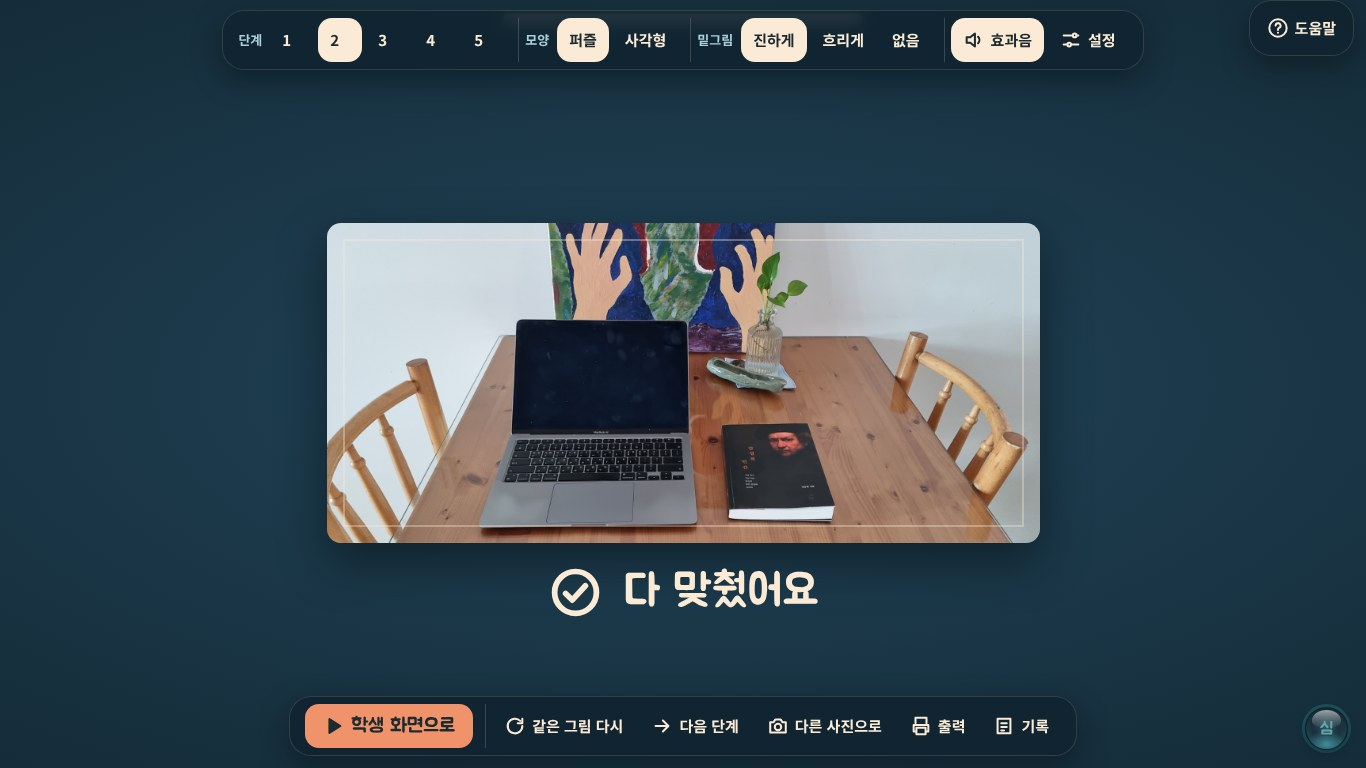
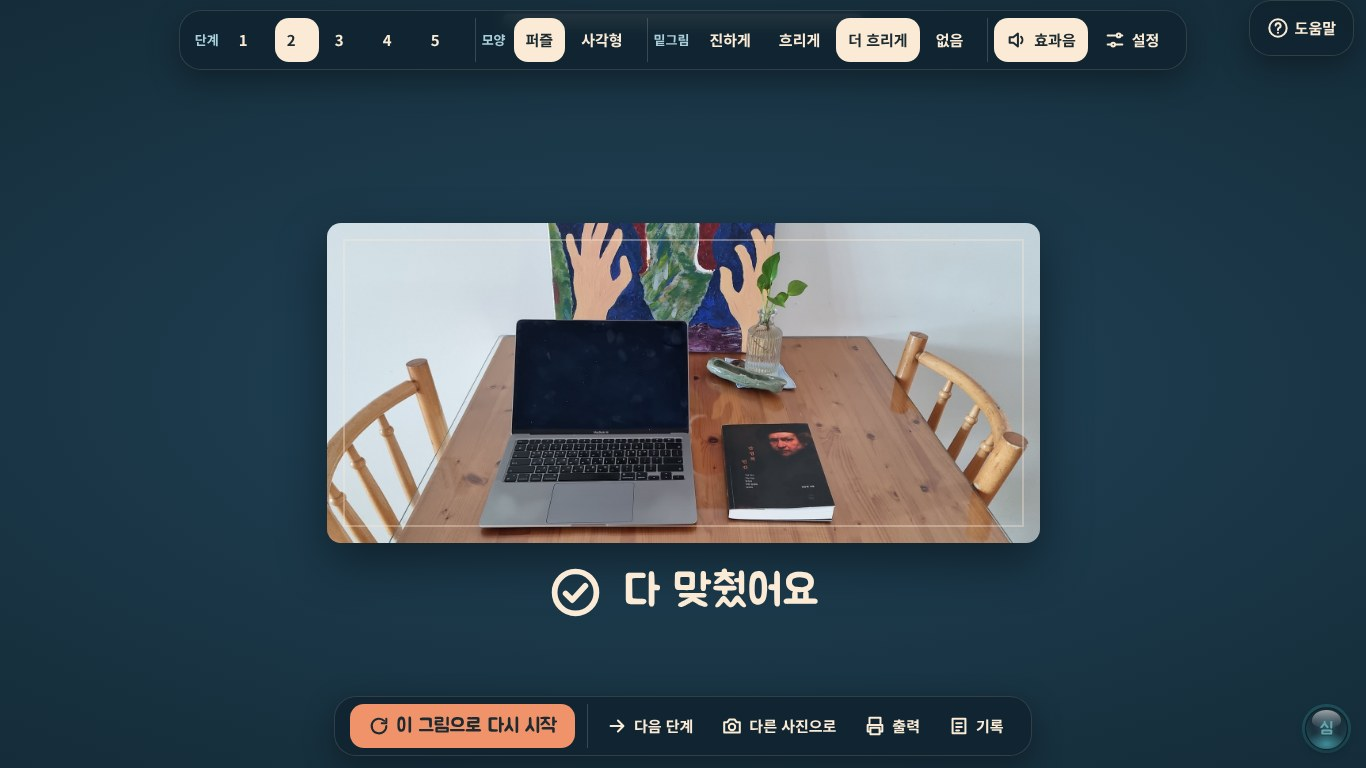
Add files via upload

Changed region(s): [[0.1537, 0.0, 0.8609, 0.0938], [0.2152, 0.9062, 0.7687, 1.0]]

diff --git a/002/picture-puzzle.html b/002/picture-puzzle.html
@@ -222,7 +222,7 @@ const ICON={
 /* 단계: 가로 5칸 고정, 줄 수 = 단계 */
 const LEVELS={1:{cols:5,rows:1},2:{cols:5,rows:2},3:{cols:5,rows:3},4:{cols:5,rows:4},5:{cols:5,rows:5}};
 const SHAPES={jig:'퍼즐 모양',rect:'사각형'};
-const GHOSTS={1:'진하게',2:'흐리게',3:'안 보이게'};
+const GHOSTS={1:'진하게',2:'흐리게',3:'더 흐리게',4:'안 보이게'};
 const pieceCount=lv=>LEVELS[lv].cols*LEVELS[lv].rows;
 
 /* ================= 상태 ================= */
@@ -234,7 +234,9 @@ const store={
 (function load(){
   const lv=+store.get('level'); if(LEVELS[lv]) S.level=lv;
   const sh=store.get('shape'); if(SHAPES[sh]) S.shape=sh;
-  const g=+store.get('ghost'); if(GHOSTS[g]) S.ghost=g;
+  /* 밑그림 4단계(진하게·흐리게·더 흐리게·없음). 예전 3단계에 저장된 '안 보이게'(3)는 4로 옮김 */
+  const g2=+store.get('ghost2'), g=+store.get('ghost');
+  if(GHOSTS[g2]) S.ghost=g2; else if([1,2,3].includes(g)) S.ghost=g===3?4:g;
   const em=store.get('errorMode'); if(['retry','free'].includes(em)) S.errorMode=em;
   if(store.get('mode')==='solo') S.mode='solo';
   S.sfx=store.get('sfx')!=='off';
@@ -313,19 +315,20 @@ function renderDocks(){
     `<div class="grp">${b('sfx',(S.sfx?ICON.sndOn:ICON.sndOff)+(S.sfx?'효과음':'효과음 끔'),S.sfx)}${b('setup',ICON.gear+'설정')}</div>`;
   $('helpTop').innerHTML=b('tour',ICON.q+'도움말');
   $('dockBot').innerHTML = !R ? '' : done
-    ? `<div class="grp">${b('student',ICON.play+'학생 화면으로',null,'class="big"')}</div><div class="grp">${b('again',ICON.redo+'같은 그림 다시')}${S.level<5?b('nextlv',ICON.next+'다음 단계'):''}${b('setup',ICON.photo+'다른 사진으로')}${b('print',ICON.print+'출력')}${b('log',ICON.log+'기록',!$('logPop').hidden)}</div>`
-    : `<div class="grp">${b('student',ICON.play+'학생 화면으로',null,'class="big"')}</div><div class="grp">${b('mix',ICON.mix+'다시 섞기',null,R&&R.active?'':'disabled')}${b('log',ICON.log+'기록',!$('logPop').hidden)}</div>`;
+    ? `<div class="grp">${b('restart',ICON.redo+'이 그림으로 다시 시작',null,'class="big"')}</div><div class="grp">${S.level<5?b('nextlv',ICON.next+'다음 단계'):''}${b('setup',ICON.photo+'다른 사진으로')}${b('print',ICON.print+'출력')}${b('log',ICON.log+'기록',!$('logPop').hidden)}</div>`
+    : `<div class="grp">${b('restart',ICON.redo+'이 그림으로 다시 시작',null,'class="big"')}</div><div class="grp">${b('mix',ICON.mix+'다시 섞기',null,R&&R.active?'':'disabled')}${b('log',ICON.log+'기록',!$('logPop').hidden)}</div>`;
 }
 function onDock(e){
   const btn=e.target.closest('button[data-a]'); if(!btn) return;
   const [a,v]=btn.dataset.a.split(':');
   if(a==='lv'){ S.level=+v; store.set('level',S.level); startRound(); }
   if(a==='sh'){ S.shape=v; store.set('shape',S.shape); startRound(); }
-  if(a==='gh'){ S.ghost=+v; store.set('ghost',S.ghost); applyGhost(); renderDocks(); }
+  if(a==='gh'){ S.ghost=+v; store.set('ghost2',S.ghost); applyGhost(); renderDocks(); }
   if(a==='sfx'){ S.sfx=!S.sfx; store.set('sfx',S.sfx?'on':'off'); renderDocks(); }
   if(a==='setup'){ leaveFull(); showSetup(); }
-  /* 학생 화면으로: 메뉴를 닫고 바로 전체 화면으로 (들어올 때만 3초) */
-  if(a==='student'){ setAdmin(false); goFull(); return; }
+  /* 이 그림으로 다시 시작: 바꾼 설정(단계·모양·밑그림…)을 적용해 같은 사진으로 처음부터, 메뉴는 닫고 전체 화면.
+     하던 판으로 그냥 돌아가려면 관리 버튼을 한 번 누름 */
+  if(a==='restart'){ startRound(); setAdmin(false); goFull(); return; }
   if(a==='tour'){ startTour(); return; }
   if(a==='mix') remix();
   if(a==='again') startRound();
@@ -410,7 +413,8 @@ function showSetup(){
     <div class="sec"><h2>판에 보이는 밑그림</h2><div class="tiles">
       ${tile('ghost',1,S.ghost,'진하게<small>처음 하는 학생</small>')}
       ${tile('ghost',2,S.ghost,'흐리게<small>조금 익숙한 학생</small>')}
-      ${tile('ghost',3,S.ghost,'안 보이게<small>테두리 그림만</small>')}
+      ${tile('ghost',3,S.ghost,'더 흐리게<small>거의 다 익숙한 학생</small>')}
+      ${tile('ghost',4,S.ghost,'안 보이게<small>테두리 그림만</small>')}
     </div></div>
     <div class="sec"><h2>다른 자리에 놓았을 때</h2><div class="tiles">
       ${tile('errorMode','show',S.errorMode,'바로 자리 보여주기<small>조각과 제자리를 함께 표시</small>')}
@@ -421,7 +425,7 @@ function showSetup(){
       ${tile('sfx','on',S.sfx?'on':'off','켬<small>맞추면 작게 "톡"</small>')}
       ${tile('sfx','off',S.sfx?'on':'off','끔<small>소리 없이</small>')}
     </div>
-      <p class="hint">학생 화면에는 메뉴가 없어요. 오른쪽 아래 옅은 동그라미를 <b>3초 동안 누르면</b> 교사 메뉴(단계·모양·밑그림, 학생 화면으로, 다시 섞기, 기록, 출력, 설정, 도움말)가 나타나요. 다 바꾼 뒤 <b>학생 화면으로</b>를 누르면 바로 전체 화면으로 이어서 해요.</p>
+      <p class="hint">학생 화면에는 메뉴가 없어요. 오른쪽 아래 옅은 동그라미를 <b>3초 동안 누르면</b> 교사 메뉴(단계·모양·밑그림, 이 그림으로 다시 시작, 다시 섞기, 기록, 출력, 설정, 도움말)가 나타나요. 다 바꾼 뒤 <b>이 그림으로 다시 시작</b>을 누르면 바뀐 설정으로 처음부터, 관리 버튼을 <b>한 번</b> 누르면 하던 판으로 돌아가요.</p>
     </div>
     <div class="paper-foot">
       <button class="pbtn" id="demoBtn" type="button">예시 사진으로 해 보기</button>
@@ -450,7 +454,7 @@ function showSetup(){
     if(r.name==='mode'){S.mode=r.value; store.set('mode',S.mode); modeUI();}
     if(r.name==='level'){S.level=+r.value; store.set('level',S.level);}
     if(r.name==='shape'){S.shape=r.value; store.set('shape',S.shape);}
-    if(r.name==='ghost'){S.ghost=+r.value; store.set('ghost',S.ghost);}
+    if(r.name==='ghost'){S.ghost=+r.value; store.set('ghost2',S.ghost);}
     if(r.name==='errorMode'){S.errorMode=r.value; store.set('errorMode',S.errorMode);}
     if(r.name==='sfx'){S.sfx=r.value==='on'; store.set('sfx',r.value);}
   });
@@ -632,7 +636,7 @@ function fitSlots(g,n,W,H,top,bottom,gap){
   const s=0.2; return {s,slots:make(s).concat(Array.from({length:n},(_,k)=>({x:gap+(k%10)*20,y:top+Math.floor(k/10)*20,k:999+k})))};
 }
 function shuffleArr(a){ for(let i=a.length-1;i>0;i--){ const j=Math.floor(Math.random()*(i+1)); [a[i],a[j]]=[a[j],a[i]]; } return a; }
-function applyGhost(){ $('ghost').style.opacity=[0,0.55,0.25,0][S.ghost]; }
+function applyGhost(){ $('ghost').style.opacity=[0,0.55,0.25,0.1,0][S.ghost]; }
 /* 조각 한 개 그리기: 테두리로 자르고 그 안에 사진, 가장자리에 옅은 선 */
 function drawPiece(p){
   const {EW,EH,m,dpr,f,bw,bh}=G, el=p.el, R=S.R;
@@ -743,14 +747,13 @@ const TOUR_STEPS=[
   {el:'#gGh', t:'밑그림', x:'판에 보이는 그림의 진하기예요. 익숙해질수록 흐리게, 없음으로 바꿔요.'},
   {el:'#dockTop [data-a="sfx"]', t:'효과음', x:'조각을 맞출 때 나는 작은 소리를 켜고 꺼요.'},
   {el:'#dockTop [data-a="setup"]', t:'설정', x:'처음 설정 화면으로 가서 사진, 누가 쓰는지, 다른 자리에 놓았을 때의 도움 방식을 바꿔요.'},
-  {el:'#dockBot [data-a="student"]', t:'학생 화면으로', x:'메뉴를 닫고 바로 전체 화면으로 학생이 이어서 해요. 메뉴는 오른쪽 아래 동그라미를 3초 누르면 다시 열려요.'},
+  {el:'#dockBot [data-a="restart"]', t:'이 그림으로 다시 시작', x:'바꾼 설정을 적용해 같은 사진으로 처음부터 다시 해요. 메뉴는 닫히고 바로 전체 화면이 돼요.'},
   {el:'#dockBot [data-a="mix"]', t:'다시 섞기', x:'남은 조각을 판 둘레에 다시 흩어 놓아요. 학생이 아무 데나 놓아 둔 조각도 정리돼요.'},
-  {el:'#dockBot [data-a="again"]', t:'같은 그림 다시', x:'같은 사진으로 한 번 더 해요.'},
   {el:'#dockBot [data-a="nextlv"]', t:'다음 단계', x:'조각을 한 줄 늘려 다시 해요.'},
   {el:'#dockBot [data-a="setup"]', t:'다른 사진으로', x:'설정 화면에서 다른 사진을 골라요.'},
   {el:'#dockBot [data-a="print"]', t:'출력', x:'오려서 맞추는 종이 퍼즐과 기록을 A4 한 장으로 인쇄해요.'},
   {el:'#dockBot [data-a="log"]', t:'기록', x:'다 맞춘 판마다 바로 맞힘, 도움 받아 맞힘(제자리 표시를 본 조각), 걸린 시간을 보여 줘요.'},
-  {el:'#adminBtn', t:'관리 버튼', x:'이 동그라미를 3초 누르면 교사 메뉴가 열려요(학생이 실수로 열지 않게). 메뉴가 열려 있을 때 한 번 누르면 바로 학생 화면으로 돌아가요.'}
+  {el:'#adminBtn', t:'관리 버튼', x:'이 동그라미를 3초 누르면 교사 메뉴가 열려요(학생이 실수로 열지 않게). 메뉴가 열려 있을 때 한 번 누르면 하던 판 그대로 학생 화면으로 돌아가요.'}
 ];
 const TOUR={on:false,i:0,list:[]};
 function startTour(){

diff --git a/002/picture-puzzle_manual.html b/002/picture-puzzle_manual.html
@@ -17,7 +17,7 @@
 
 <h3 style="margin:28px 0 8px;padding:6px 12px;background:#FBEBD6;border-radius:8px;font-size:20px;color:#17303E;">수업 정하기</h3>
 <p style="margin:0 0 12px;">단계는 줄 수입니다. 1단계 5조각(1줄) · 2단계 10조각 · 3단계 15조각 · 4단계 20조각 · 5단계 25조각(5줄). 조각 모양은 <b>퍼즐 모양</b>(둥근 꼭지)과 <b>사각형</b> 중에서 고릅니다.</p>
-<p style="margin:0 0 12px;">그 밖의 설정: 판에 보이는 밑그림(진하게 · 흐리게 · 안 보이게), 다른 자리에 놓았을 때(바로 자리 보여주기 · 한 번 더 기회 · 성공할 때까지), 효과음(켬 · 끔). 목소리는 나오지 않고, 맞추면 작게 "톡" 소리만 납니다.</p>
+<p style="margin:0 0 12px;">그 밖의 설정: 판에 보이는 밑그림(진하게 · 흐리게 · 더 흐리게 · 안 보이게), 다른 자리에 놓았을 때(바로 자리 보여주기 · 한 번 더 기회 · 성공할 때까지), 효과음(켬 · 끔). 목소리는 나오지 않고, 맞추면 작게 "톡" 소리만 납니다.</p>
 
 <h3 style="margin:28px 0 8px;padding:6px 12px;background:#FBEBD6;border-radius:8px;font-size:20px;color:#17303E;">수업 흐름</h3>
 <p style="margin:0 0 16px;">학생 화면에는 메뉴가 없습니다. 아래 그림은 <b>예시 사진</b>으로 3단계(퍼즐 모양 15조각)를 해 본 화면입니다.</p>
@@ -50,12 +50,12 @@
 </div>
 
 <h3 style="margin:28px 0 8px;padding:6px 12px;background:#FBEBD6;border-radius:8px;font-size:20px;color:#17303E;">교사 모드</h3>
-<p style="margin:0 0 10px;">화면 오른쪽 아래의 작은 파란 유리알 버튼(<b>charum</b>)을 <b>3초 동안 누르면</b> 켜집니다(<b>심</b>). 설정을 마친 뒤 아래쪽 <b>학생 화면으로</b>를 누르거나 관리 버튼을 <b>한 번</b> 누르면, 메뉴가 닫히고 바로 전체 화면으로 이어서 합니다.</p>
+<p style="margin:0 0 10px;">화면 오른쪽 아래의 작은 파란 유리알 버튼(<b>charum</b>)을 <b>3초 동안 누르면</b> 켜집니다(<b>심</b>). 설정을 바꾼 뒤 아래쪽 <b>이 그림으로 다시 시작</b>을 누르면 바뀐 설정으로 같은 사진을 처음부터 다시 합니다. 하던 판으로 그냥 돌아가려면 관리 버튼을 <b>한 번</b> 누르세요. 어느 쪽이든 메뉴가 닫히고 바로 전체 화면이 됩니다.</p>
 <ul style="margin:0 0 12px;padding-left:24px;">
-  <li style="margin-bottom:6px;"><b>위쪽</b>: 단계(1~5), 모양(퍼즐 · 사각형), 밑그림, 효과음, 설정. 단계나 모양을 바꾸면 새 판이 바로 시작됩니다.</li>
+  <li style="margin-bottom:6px;"><b>위쪽</b>: 단계(1~5), 모양(퍼즐 · 사각형), 밑그림(진하게 · 흐리게 · 더 흐리게 · 없음), 효과음, 설정. 단계나 모양을 바꾸면 새 판이 바로 시작됩니다.</li>
   <li style="margin-bottom:6px;"><b>오른쪽 위 끝 도움말</b>: 메뉴의 단추를 말풍선으로 하나씩 짚어 설명합니다.</li>
-  <li style="margin-bottom:6px;"><b>아래쪽 (맞추는 중)</b>: 학생 화면으로, 다시 섞기(아무 데나 놓아 둔 조각도 판 둘레로 정리), 기록. 조각을 대신 옮겨 줄 때는 선생님이 직접 끌어다 놓으면 됩니다.</li>
-  <li style="margin-bottom:6px;"><b>아래쪽 (다 맞춘 뒤)</b>: 학생 화면으로, 같은 그림 다시, 다음 단계, 다른 사진으로, 출력, 기록(바로 맞힘 / 도움 받아 맞힘 / 걸린 시간).</li>
+  <li style="margin-bottom:6px;"><b>아래쪽 (맞추는 중)</b>: 이 그림으로 다시 시작, 다시 섞기(아무 데나 놓아 둔 조각도 판 둘레로 정리), 기록. 조각을 대신 옮겨 줄 때는 선생님이 직접 끌어다 놓으면 됩니다.</li>
+  <li style="margin-bottom:6px;"><b>아래쪽 (다 맞춘 뒤)</b>: 이 그림으로 다시 시작, 다음 단계, 다른 사진으로, 출력, 기록(바로 맞힘 / 도움 받아 맞힘 / 걸린 시간).</li>
   <li style="margin-bottom:6px;"><b>출력</b>: 방금 한 퍼즐과 똑같은 자를 선을 그린 그림과 기록을 A4 한 장에 인쇄합니다. 오려서 종이 퍼즐로 다시 해 볼 수 있습니다.</li>
 </ul>
 <img src="https://shim-sung-hyun.github.io/web_app/002/picture-puzzle07.jpg" alt="도움말 말풍선" style="display:block;width:100%;height:auto;border:1px solid #D9CBB6;border-radius:8px;margin:0 0 6px;">
